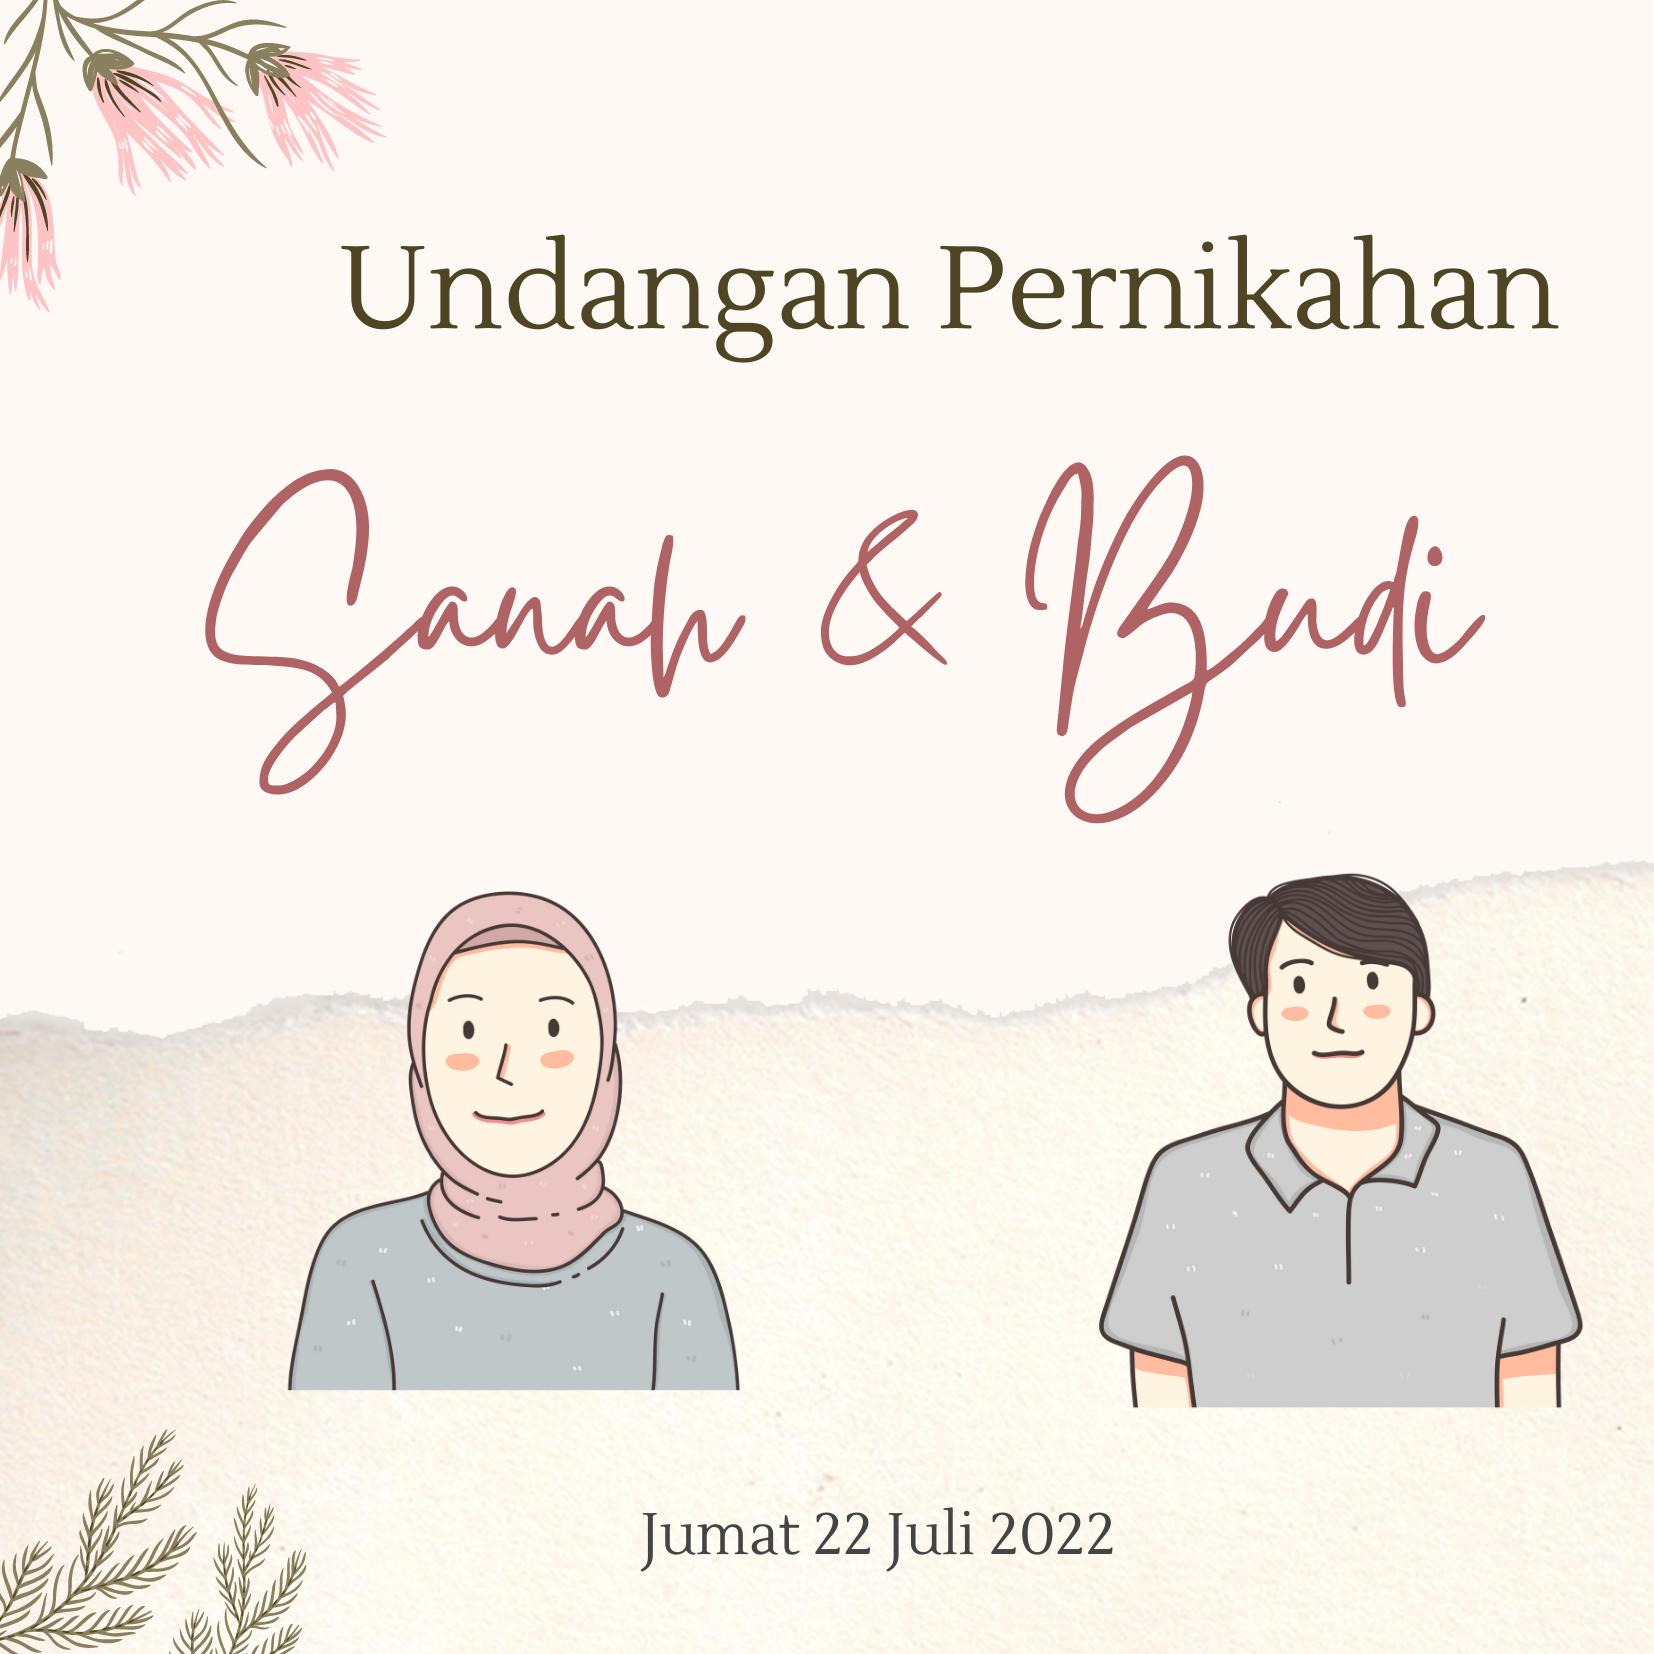
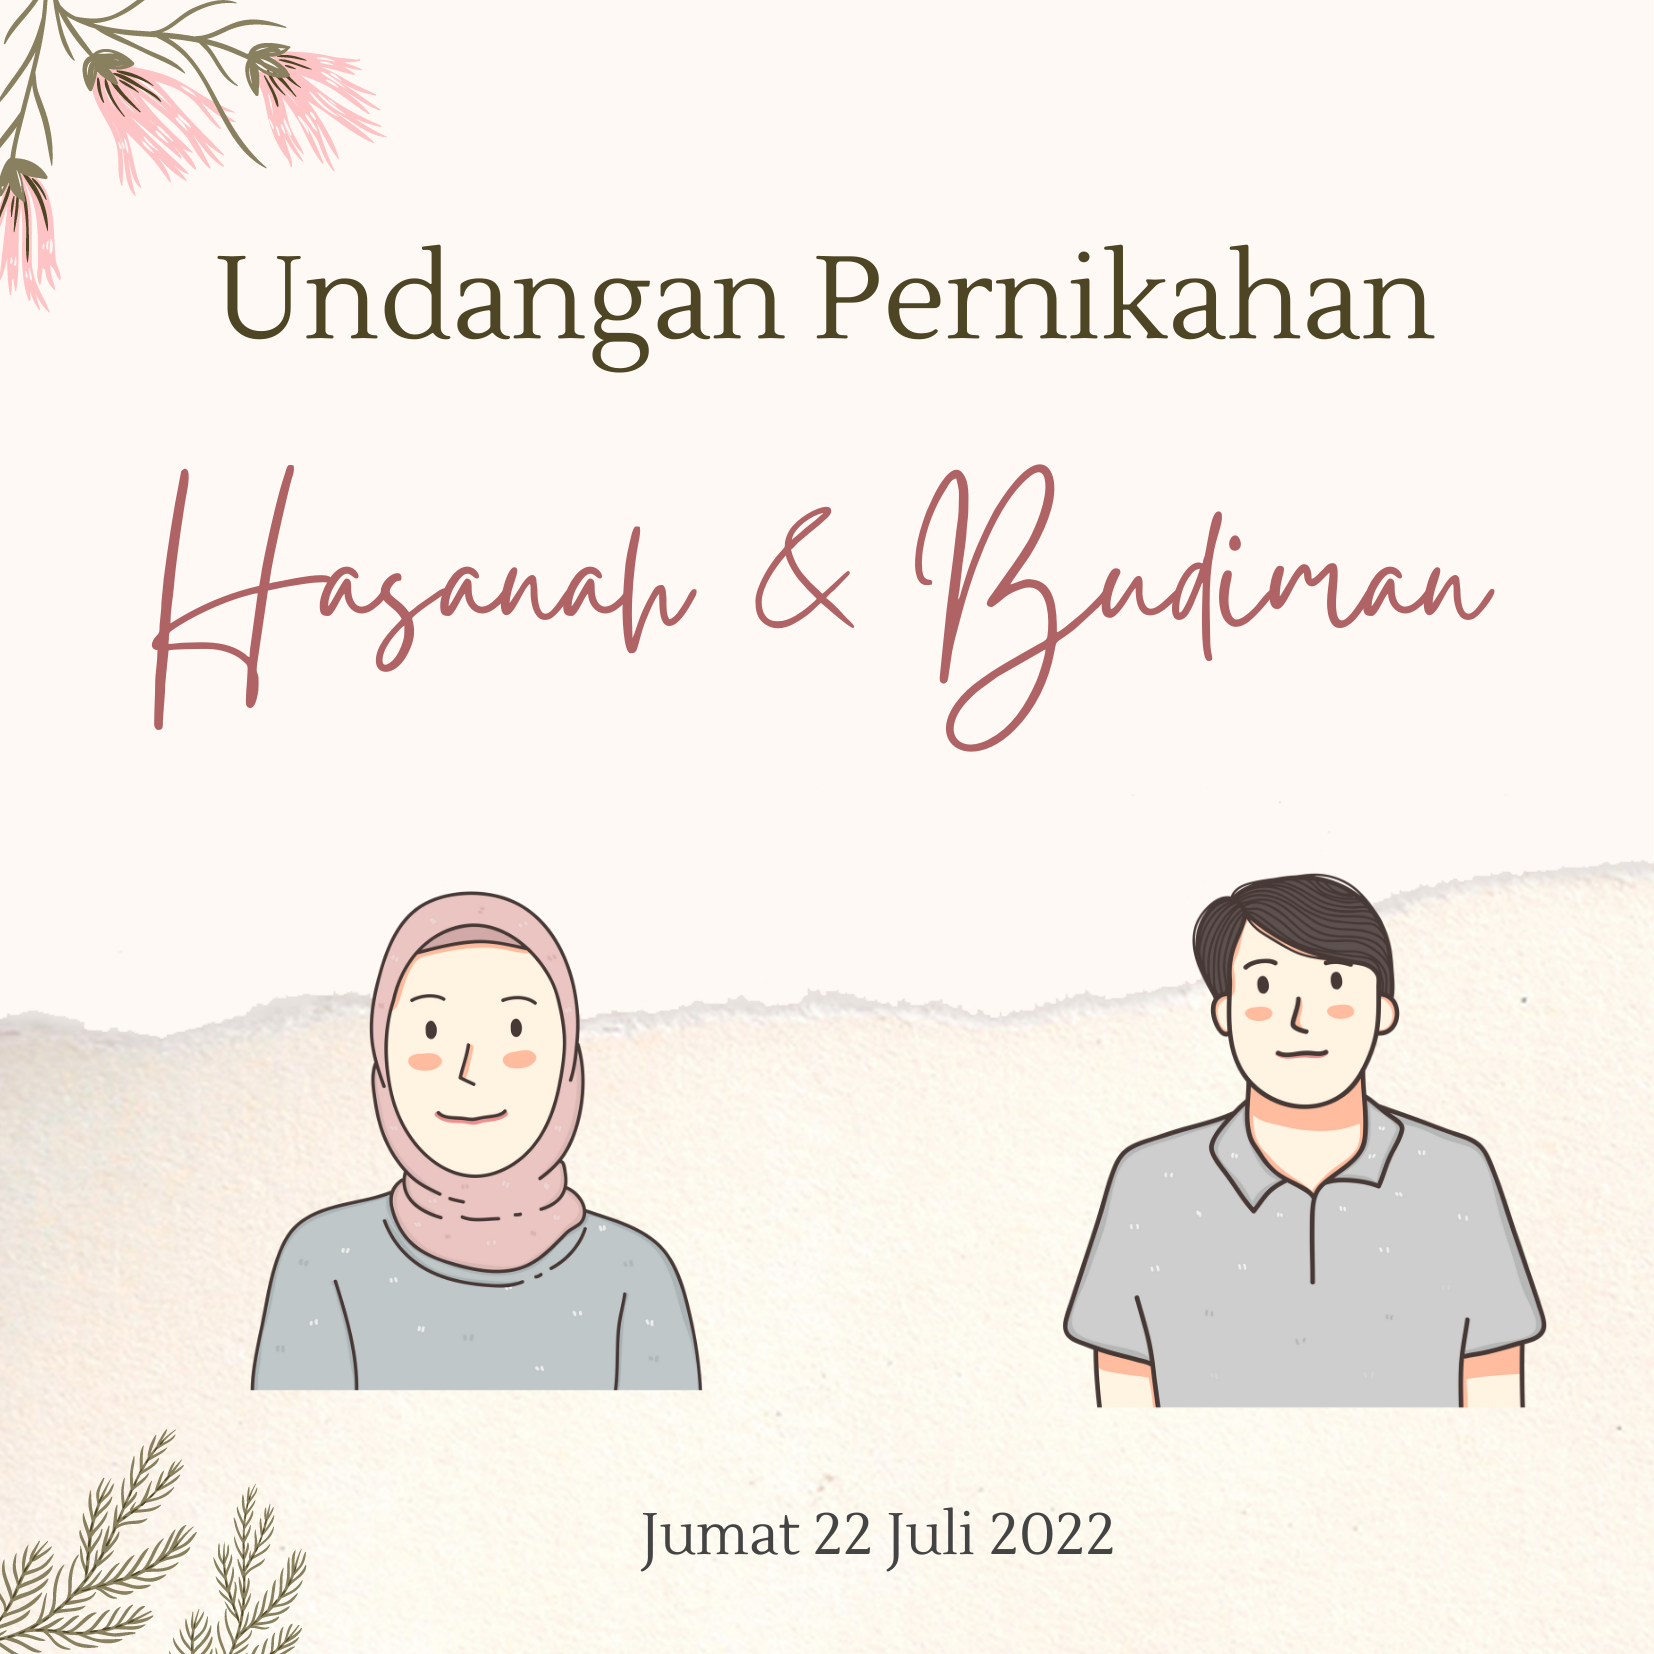
change wedding info

diff --git a/index.html b/index.html
@@ -5,10 +5,10 @@
     <meta name="theme-color" content="#BC8887" />
     <meta http-equiv="X-UA-Compatible" content="IE=edge" />
     <meta name="viewport" content="width=device-width, initial-scale=1" />
-    <title>Undangan Pernikahan Sanah & Budi</title>
+    <title>Undangan Pernikahan Siti Nurhasanah & Budiman</title>
 
-    <meta property="og:title" content="Undangan Pernikahan Sanah & Budi - Jumat, 22 Juli 2022">
-    <meta property="og:description" content="Undangan Pernikahan Sanah & Budi - Jumat, 22 Juli 2022 di Kabun">
+    <meta property="og:title" content="Undangan Pernikahan Siti Nurhasanah & Budiman - Jumat, 22 Juli 2022">
+    <meta property="og:description" content="Undangan Pernikahan Siti Nurhasanah & Budiman - Jumat, 22 Juli 2022 di Gang Langkat, Desa Aliantan, Kabun, Rokan Hulu, Riau">
     <meta property="og:locale" content="id_ID" />
     <meta property="og:image" content="https://raw.githubusercontent.com/pacakman/sanah-menikah/master/image/sanah-nikah.png">
     <meta name="twitter:card" content="summary_large_image">
@@ -88,15 +88,15 @@
         <div class="hero-body">
           <div class="container has-text-centered">
             <h1 class="subtitle">Undangan Pernikahan</h1>
-            <h2 class="title">Sanah & Budi</h2>
+            <h2 class="title">Siti Nurhasana & Budiman</h2>
             <h4 class="subtitle tempatwaktu">
-              
                 Jumat, 22 Juli 2022
                 </br>
                 Rumah Mempelai Wanita
                 </br>
-                Aliantan, Kampar, Riau
-  
+                Gang Langkat, Desa Aliantan RT 07 RW 02
+                </br>
+                Kabun, Rokan Hulu, Riau
             </h4>
           </div>
           <!-- Start Countdown -->       
@@ -192,10 +192,10 @@
           </div>
           <div class="ampersand">&</div>
           <div class="nama-lengkap">
-          Budi Doremi.
+          Budiman.
           </div>
           <div class="bodytext">
-            Putra ke-3 Bapak & Ibu 
+            Putra ke-3 Bapak Sanimin & Ibu Damaria Br Tampubolon
           </div>
            
         </div>
@@ -264,9 +264,9 @@
             <p class="tempat is-larger has-text-centered">
               <strong>Rumah Mempelai Wanita</strong>
               <br>
-              Jl. Aliantan, 
+              Gang Langkat, Desa Aliantan RT 07 RW 02
               <br>
-              Kec.Aliantan, Kabupaten Kampar, Riau
+              Kabun, Rokan Hulu, Riau
               <br>
             </p>
           </div>
@@ -334,7 +334,7 @@
                 Kami yang berbahagia,
                 <br>
                 <a class="instagram":" href="#" target="_blank" alt="Instagram Lia">
-                  Sanah & Budi
+                  Siti Nurhasanah & Budiman
                 </a>
               </p>
 
